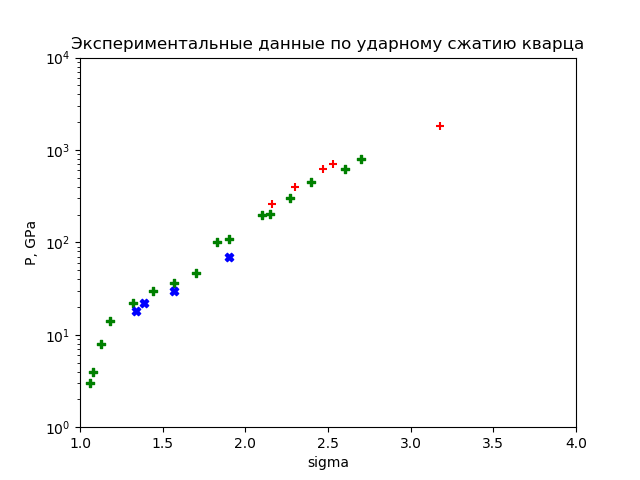
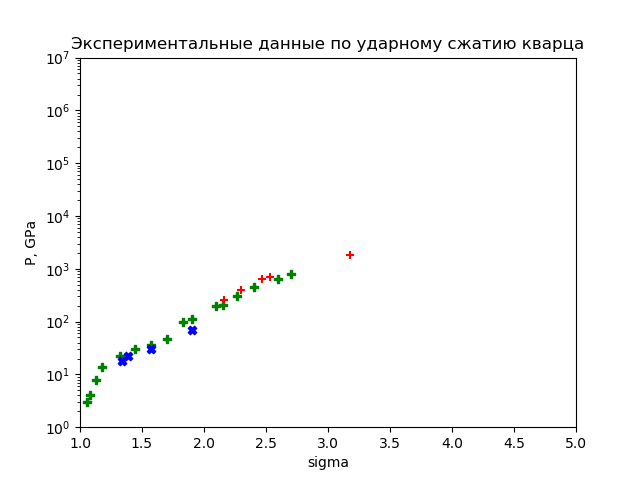
fix

diff --git a/Internal_energy.py b/Internal_energy.py
@@ -9,7 +9,9 @@ from Dirak_functions import integral_3_2
 from Cell import volume, theta, r_0
 from working_progonka import X, eta, progonka
 
-import matplotlib.pyplot as plt 
+import matplotlib.pyplot as plt
+from Tabular_values import Na
+
 
 Z = [(i / N) for i in range(N + 1)]
 
@@ -83,68 +85,75 @@ def Energy(T, rho, z, Atom_weight):
 
     return E(T , rho)
 
+ENERGY_ISOTHERM_RHO = [[], [], [], [], []]
+RHO = [[], [], [], [], []]
+k = -3
 
-#print(Energy(36.4, 100, 13, 26))
-#z = 13
-#A = 26
-#T = 36.4
-#rho = 100
-#T_h = T / z**(4 / 3)
-#rho_h = rho * Na * 11.19 * 1.4818 * 10**(-25) / A / z
-#print("T_h = ", T / z**(4 / 3))
-#print("rho_h = ", rho * Na * 11.19 * 1.4818 * 10**(-25) / A / z )
-#print("E = ", Energy(T_h, rho_h, 1, 1) * z**(7 / 3))
-#ENERGY_ISOTHERM_RHO = [[], [], [], [], []]
-#RHO = [[], [], [], [], []]
-#k = -3
-#
-#while k < 2:
-#    rho_is = 0.001
-#    for i in (0.001, 0.01, 0.1, 1., 10.):
-#        while rho_is < i * 10:
-#            RHO[k + 3].append(rho_is)
-#            ENERGY_ISOTHERM_RHO[k+3].append(Energy(10**k, rho_is, 1, 1))
-#            rho_is += i
-#    k += 1
-#
-#for i in range(5):
-#    plt.plot(RHO[i], ENERGY_ISOTHERM_RHO[i])
-#
-#plt.xscale('log')
-#plt.yscale('log')
-#plt.xlabel('rho')
-#plt.ylabel('E')
-#plt.title('ENERGY isotherm')
-#plt.grid('true')
-#plt.savefig('enertherm')
-#plt.show()
-#
-#
-#ENERGY_ISOHORE_T = [[], [], [], [], []]
-#TT = [[], [], [], [], []]
-#k = -3
-#
-#while k < 2:
-#    T_is = 0.001
-#    for i in (0.001, 0.01, 0.1, 1., 10.):
-#        while T_is < i * 10:
-#            TT[k+3].append(T_is)
-#            ENERGY_ISOHORE_T[k+3].append(Energy(T_is, 10**k, 1, 1))
-#            T_is += i
-#
-#    k += 1
-#
-#for i in range(5):
-#    plt.plot(TT[i], ENERGY_ISOHORE_T[i])
-#
-#
-###E_sub_int(T, rho)
-#plt.xscale('log')
-#plt.yscale('log')
-#plt.xlabel("T")
-#plt.ylabel('E')
-#plt.grid('true')
-#plt.title('ENERGY isohore')
-####plt.axis((0, 10000,0,950000))
-#plt.savefig('enerhore')
-#plt.show()
+while k < 2:
+    rho_is = 0.001
+    for i in (0.001, 0.01, 0.1, 1., 10.):
+        while rho_is < i * 10:
+            RHO[k + 3].append(rho_is)
+            T_h = 10**k / 13**(4 / 3)
+            rho_h = rho_is * Na * 11.19 * 1.4818 * 10**(-25) / 26 / 13
+            ENERGY_ISOTHERM_RHO[k+3].append(2.626 * 10**3 / 26 * Energy(T_h, rho_h, 1, 1)*13**(7 / 3))
+            rho_is += i
+    k += 1
+
+
+
+plt.plot(RHO[0], ENERGY_ISOTHERM_RHO[0], label="k = - 3")
+plt.plot(RHO[1], ENERGY_ISOTHERM_RHO[1], label="k = - 2")
+plt.plot(RHO[2], ENERGY_ISOTHERM_RHO[2], label="k = -1")
+plt.plot(RHO[3], ENERGY_ISOTHERM_RHO[3], label="k = 0")
+plt.plot(RHO[4], ENERGY_ISOTHERM_RHO[4], label="k = 1")
+
+plt.xscale('log')
+plt.yscale('log')
+plt.xlabel('rho, г / см^3')
+plt.ylabel('E, кДж / г')
+plt.title('Изотермы энергии алюминия')
+plt.grid('true')
+plt.legend()
+plt.savefig('enertherm')
+plt.show()
+
+
+ENERGY_ISOHORE_T = [[], [], [], [], []]
+TT = [[], [], [], [], []]
+k = -3
+
+while k < 2:
+    T_is = 0.001
+    for i in (0.001, 0.01, 0.1, 1., 10.):
+        while T_is < i * 10:
+            TT[k+3].append(T_is)
+            T_h = T_is / 13**(4 / 3)
+            rho_h = 10**k * Na * 11.19 * 1.4818 * 10**(-25) / 26 / 13
+
+            ENERGY_ISOHORE_T[k+3].append(2.626 * 10**3 * Energy(T_h, rho_h, 1, 1) * 13**(7 / 3))
+            T_is += i
+
+    k += 1
+
+
+plt.plot(TT[0], ENERGY_ISOHORE_T[0], label="k = - 3")
+plt.plot(TT[1], ENERGY_ISOHORE_T[1], label="k = - 2")
+plt.plot(TT[2], ENERGY_ISOHORE_T[2], label="k = -1")
+plt.plot(TT[3], ENERGY_ISOHORE_T[3], label="k = 0")
+plt.plot(TT[4], ENERGY_ISOHORE_T[4], label="k = 1")
+
+
+
+
+##E_sub_int(T, rho)
+plt.xscale('log')
+plt.yscale('log')
+plt.xlabel("T , кэВ")
+plt.ylabel('E, кДж / г')
+plt.grid('true')
+plt.title('Изохоры энергии алюминия')
+plt.legend()
+###plt.axis((0, 10000,0,950000))
+plt.savefig('enerhore')
+plt.show()

diff --git a/Pressure.py b/Pressure.py
@@ -7,6 +7,8 @@ from Dirak_functions import integral_3_2
 from Cell import volume, theta,  rho_e
 from Changing_parameters import N
 from working_progonka import eta, progonka
+from Tabular_values import Na
+
 
 
 
@@ -27,58 +29,73 @@ def P(T, rho, Atom_weight, z):
     return 32 / (3 * pi**3) * (2 / pi)**(2 / 3) * (2**(7/6) * 3**(2/3) * pi**(-5 / 3) * theta(T)**(1/2) * volume(rho, 1) **(2/3) * (PHI[0])**2)**(-5 / 3) * integral_3_2(PHI[N])
 
 
-#PRESSURE_ISOTHERM_RHO = [[], [], [], [], []]
-#RHO = [[], [], [], [], []]
-#k = -3
-#
-#while k < 2:
-#    rho_is = 0.001
-#    for i in (0.001, 0.01, 0.1, 1., 10., 60.):
-#        while rho_is < i * 10:
-#            RHO[k + 3].append(rho_is)
-#            PRESSURE_ISOTHERM_RHO[k+3].append(P(10**k, rho_is, 1, 1))
-#            rho_is += i
-#    k += 1
-#
-#for i in range(5):
-#    plt.plot(RHO[i], PRESSURE_ISOTHERM_RHO[i])
-#
-#
-#plt.xscale('log')
-#plt.yscale('log')
-#plt.xlabel('rho')
-#plt.ylabel('P')
-#plt.title('PRESSURE isotherm')
-#plt.grid('true')
-#plt.savefig('prestherm')
-#plt.show()
-#
-#
-#PRESSURE_ISOHORE_T = [[], [], [], [], []]
-#TT = [[], [], [], [], []]
-#k = -3
-#
-#while k < 2:
-#    T_is = 0.001
-#    for i in (0.001, 0.01, 0.1, 1.):
-#        while T_is < i * 10:
-#            TT[k+3].append(T_is)
-#            PRESSURE_ISOHORE_T[k+3].append(P(T_is, 10**k, 1, 1))
-#            T_is += i
-#    k += 1
-#
-#for i in range(5):
-#    plt.plot(TT[i], PRESSURE_ISOHORE_T[i])
-#
-#plt.xscale('log')
-#plt.yscale('log')
-#plt.xlabel("T")
-#plt.ylabel('P')
-#plt.grid('true')
-#plt.title('PRESSURE isohore')
-#plt.savefig('preshore')
-#plt.show()
-#
-##print(P_e(Temperature_system, rho_system))
-#
-##print(log10(P(10**(3), 10**(-4), PHI = progonka(10**3, 10**(-4), 1, 1))))
+PRESSURE_ISOTHERM_RHO = [[], [], [], [], []]
+RHO = [[], [], [], [], []]
+k = -3
+
+while k < 2:
+    rho_is = 0.001
+    for i in (0.001, 0.01, 0.1, 1., 10., 60.):
+        while rho_is < i * 10:
+            RHO[k + 3].append(rho_is)
+            T_h = 10**k / 13 ** (4 / 3)
+
+            rho_h = rho_is * Na * 11.19 * 1.4818 * 10**(-25) / 26 / 13
+            PRESSURE_ISOTHERM_RHO[k+3].append(2.942 * 10**6 * P(T_h, rho_h, 1, 1) * 13**(10 / 3))
+
+            rho_is += i
+    k += 1
+
+plt.plot(RHO[0], PRESSURE_ISOTHERM_RHO[0], label="k = - 3")
+plt.plot(RHO[1], PRESSURE_ISOTHERM_RHO[1], label="k = - 2")
+plt.plot(RHO[2], PRESSURE_ISOTHERM_RHO[2], label="k = -1")
+plt.plot(RHO[3], PRESSURE_ISOTHERM_RHO[3], label="k = 0")
+plt.plot(RHO[4], PRESSURE_ISOTHERM_RHO[4], label="k = 1")
+
+
+plt.xscale('log')
+plt.yscale('log')
+plt.xlabel('rho, г / см^3')
+plt.ylabel('P, ГПа')
+plt.title('Изотермы давления алюминия')
+plt.grid('true')
+plt.legend()
+plt.savefig('prestherm')
+plt.show()
+
+
+PRESSURE_ISOHORE_T = [[], [], [], [], []]
+TT = [[], [], [], [], []]
+k = -3
+
+while k < 2:
+    T_is = 0.001
+    for i in (0.001, 0.01, 0.1, 1.):
+        while T_is < i * 10:
+            TT[k+3].append(T_is)
+            T_h = T_is/ 13 ** (4 / 3)
+
+            rho_h = 10**k * Na * 11.19 * 1.4818 * 10 ** (-25) / 26 / 13
+            PRESSURE_ISOHORE_T[k + 3].append(2.942 * 10 ** 6 * P(T_h, rho_h, 1, 1) * 13 ** (10 / 3))
+            T_is += i
+    k += 1
+
+plt.plot(TT[0], PRESSURE_ISOHORE_T[0], label="k = - 3")
+plt.plot(TT[1], PRESSURE_ISOHORE_T[1], label="k = - 2")
+plt.plot(TT[2], PRESSURE_ISOHORE_T[2], label="k = -1")
+plt.plot(TT[3], PRESSURE_ISOHORE_T[3], label="k = 0")
+plt.plot(TT[4], PRESSURE_ISOHORE_T[4], label="k = 1")
+
+plt.xscale('log')
+plt.yscale('log')
+plt.xlabel("T, кэВ")
+plt.ylabel('P, ГПа')
+plt.grid('true')
+plt.title('Изохоры давления алюминия')
+plt.legend()
+plt.savefig('preshore')
+plt.show()
+
+#print(P_e(Temperature_system, rho_system))
+
+#print(log10(P(10**(3), 10**(-4), PHI = progonka(10**3, 10**(-4), 1, 1))))

diff --git a/Entrophy.py b/Entrophy.py
@@ -2,6 +2,7 @@ from math import pi, log, e, log10
 import matplotlib.pyplot as plt
 from Changing_parameters import N
 from Dirak_functions import integral_1_2, integral_3_2
+from Tabular_values import Na
 
 from Atom_parameters import Atom_weight,z
 from Cell import z_0, r_0, volume, theta
@@ -16,7 +17,7 @@ for i in range(N+1):
 
 
 
-def S(T, rho):
+def S(T, rho, Atom_weight, z):
 
 
     PHI = progonka(T, rho, 1, 1)
@@ -55,9 +56,9 @@ def S(T, rho):
     ##ПОЛНАЯ ЭНТРОПИЯ
 
     def S(T,rho):
-        return S_e(T, rho) + 3/2 * log(1836 * Atom_weight * theta(T) * volume(rho, 1) ** (2 / 3) / 2 / pi, e) + 5/2
+        return 0.9648 * 10**2 / Atom_weight * (S_e(T, rho) + 3/2 * log(1836 * Atom_weight * theta(T) * volume(rho, 1) ** (2 / 3) / 2 / pi, e) + 5 / 3)
 
-    return S_e(T, rho)
+    return S(T, rho)
 
 
 ENTROPHY_ISOTHERM_RHO = [[], [], [], [], []]
@@ -70,9 +71,10 @@ while k < 2:
     for i in (0.001, 0.01, 0.1, 1., 10., 60.):
         while rho_is < i * 10:
             RHO[k + 3].append(rho_is)
-            ENTROPHY_ISOTHERM_RHO[k+3].append(S(10**k, rho_is))
-
-            print(rho_is, S(10**k, rho_is))
+            T_h = 10**k
+            rho_h = rho_is
+            ENTROPHY_ISOTHERM_RHO[k+3].append(S(T_h, rho_h, 1, 1))
+            #print(rho_is, S(T_h, rho_h, 1, 1))
             rho_is += i
     k += 1
 
@@ -85,7 +87,7 @@ plt.xlabel('rho')
 plt.ylabel('S')
 plt.title('ENTROPHY isotherm')
 plt.grid('true')
-# plt.savefig('entrophyrtherm')
+plt.savefig('entrophyrtherm')
 plt.show()
 
 
@@ -98,8 +100,10 @@ while k < 2:
     for i in (0.001, 0.01, 0.1, 1., 10.):
         while T_is < i * 10:
             TT[k+3].append(T_is)
-            ENTROPHY_ISOHORE_T[k+3].append(S(T_is, 10**k))
-            print(T_is, S(T_is, 10**k))
+            T_h = T_is
+            rho_h = 10**k
+            ENTROPHY_ISOHORE_T[k+3].append(S(T_h, rho_h, 1, 1))
+            #print(T_is, S(T_is, 10**k))
             T_is += i
 
     k += 1
@@ -114,8 +118,8 @@ plt.ylabel('S')
 plt.grid('true')
 plt.title('ENTROPHY isohore')
 ###plt.axis((0, 10000,0,950000))
-### plt.savefig('entrophyhore')
+plt.savefig('entrophyhore')
 plt.show()
 
 
-print(log10(S(10 ** 3 / 36.7493224786, 1.0 / (8.923608963522 * 0.01 * 10 ** (- 4)))))
+#print(log10(S(10 ** 3 / 36.7493224786, 1.0 / (8.923608963522 * 0.01 * 10 ** (- 4)))))

diff --git a/experiment_sio2.py b/experiment_sio2.py
@@ -24,8 +24,8 @@ plt.scatter(X_3, Y_3, color = 'blue', marker='X')
 #plt.scatter(X_2, Y_2,  marker='P')
 
 #диапазон осей
-plt.xlim(1,4)
-plt.ylim(1,10000)
+plt.xlim(1,5)
+plt.ylim(1,10000000)
 plt.yscale('log')
 #заголовки
 plt.title('Экспериментальные данные по ударному сжатию кварца')

diff --git a/experiment_al.py b/experiment_al.py
@@ -59,7 +59,7 @@ plt.scatter(X_13, Y_13,  marker='x', facecolors='none', edgecolors='b')
 plt.scatter(X_14, Y_14,  marker='H', facecolors='none', edgecolors='b')
 
 #диапазон осей
-plt.xlim(1,5)
+plt.xlim(1,6)
 plt.ylim(1,10000000)
 plt.yscale('log')
 #заголовки
